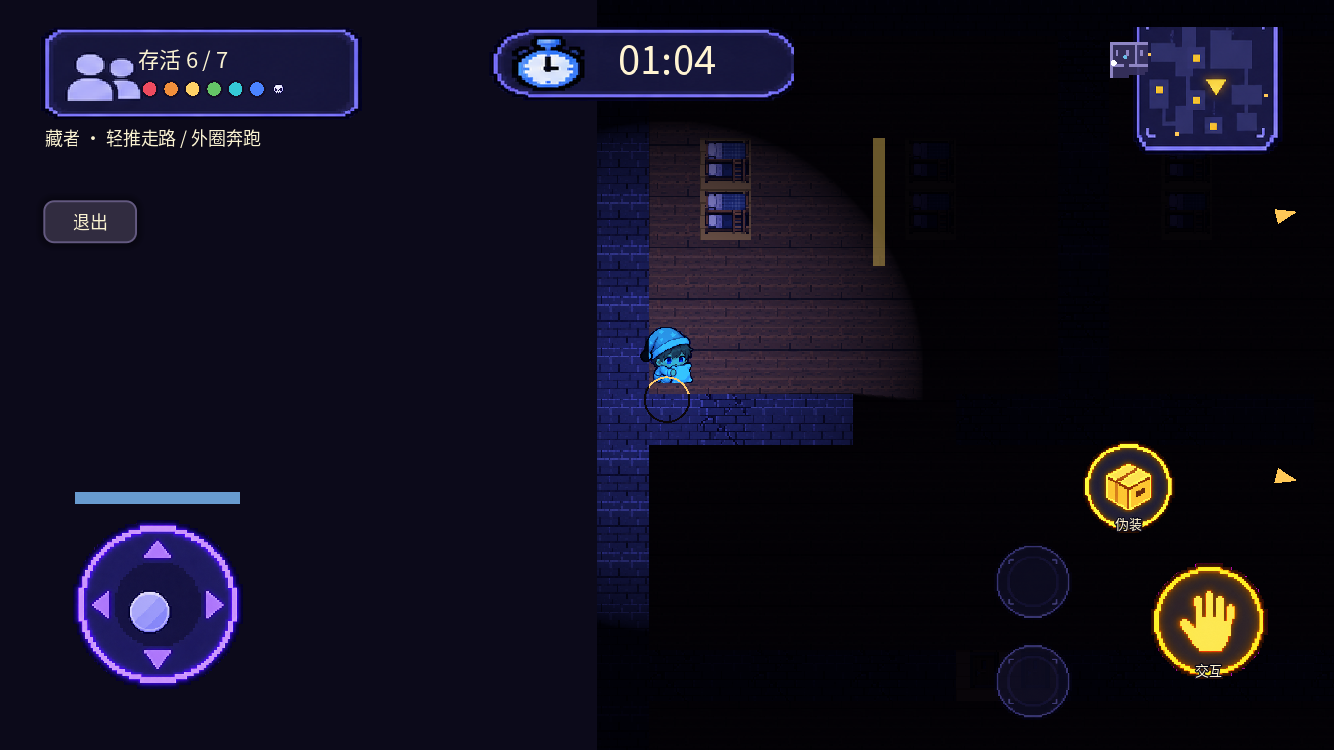
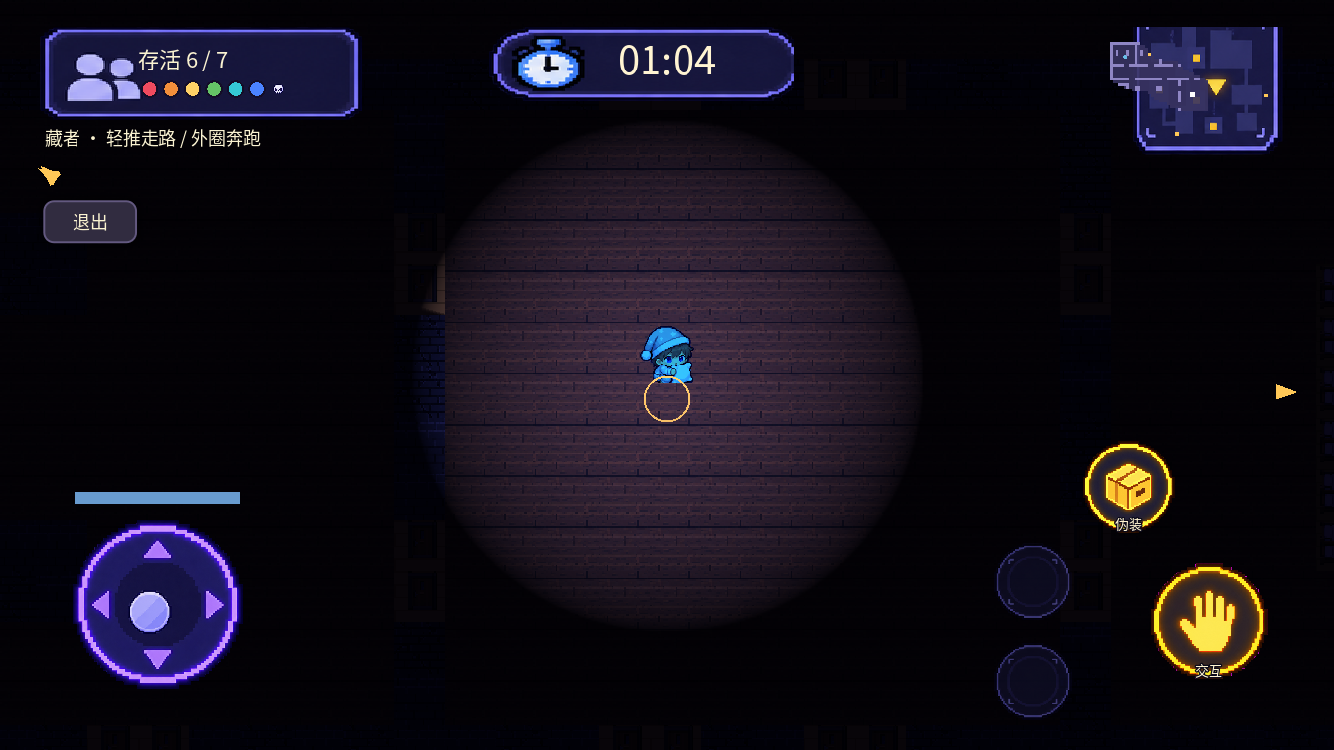
自动试玩加 --autoplay-seek：真实对局复验被抓后幽灵阵营页停留 10 秒再回局内

diff --git a/客户端/Godot_Client/README.md b/客户端/Godot_Client/README.md
@@ -21,6 +21,8 @@ cd "E:\Game_Work\AI 游戏\多人躲猫猫\客户端\Godot_Client"
 
 `scripts/AutoPlay.gd` 会以游客身份连真服务器，建房补满 AI 打完整一局，把主界面、房间、投票、身份、追捕期（3/12/25/45 秒）、被抓、结算截图存到 `docs/screenshots/live-*.png`，然后退出。
 
+追加 `--autoplay-seek`（`-- --autoplay --autoplay-seek`）时，若身份是藏者会主动走向猎手出生点等待被抓，用于验证被抓 → 幽灵阵营选择（15 页停留 10 秒后回到局内）这段流程；日志里的 `AUTOPLAY caught +Ns page=` 逐秒记录当前页面。
+
 ## 键位与局内
 
 桌面端使用 UI 按钮；对接摇杆后 `WASD` 移动、`Shift` 跑、`Space` 主按钮、`Q` 技能、`1/2` 道具、`F` 指认。客户端发送 `game.input`（变化时，≥10Hz）和协议约定的 `game.action`。黑暗通过 `CanvasModulate` 色值 #0c0a1a 和本地视野 UI 表现；服务器快照负责权威位置/可见玩家/事件。
